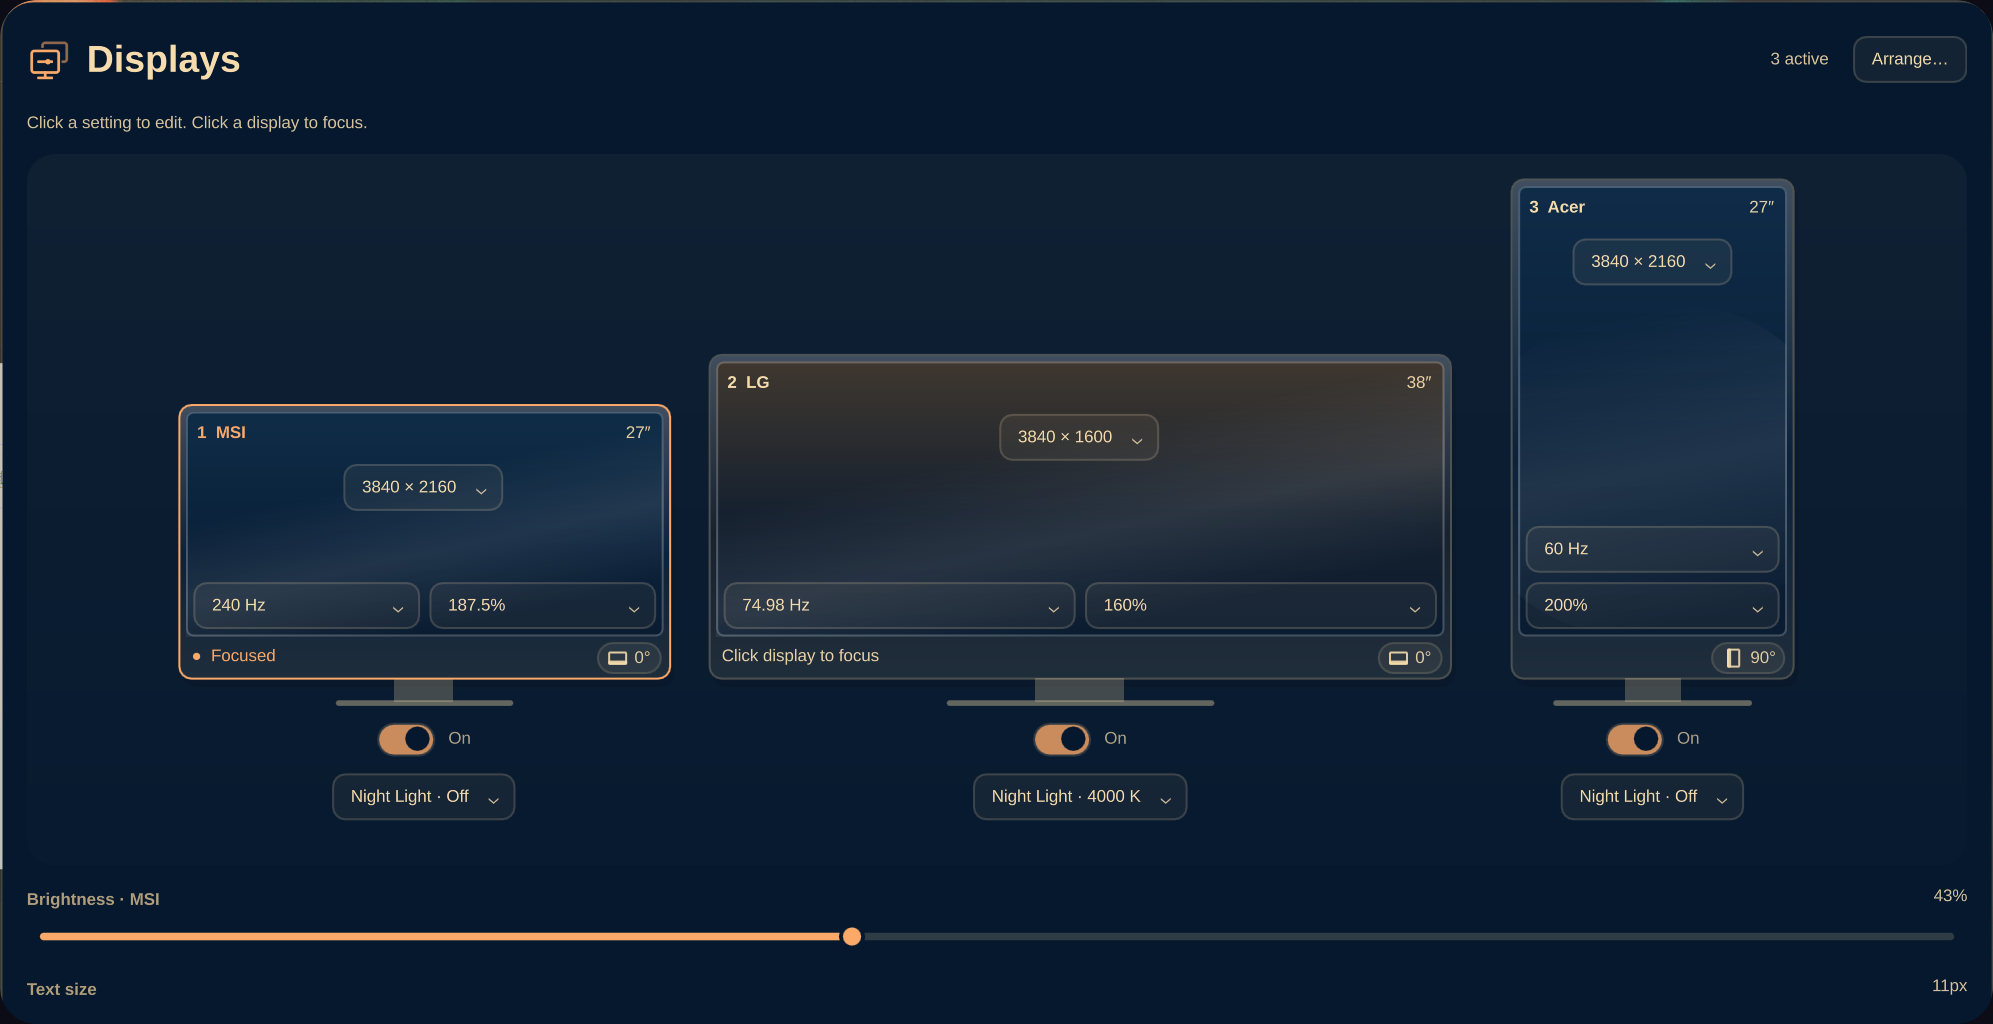
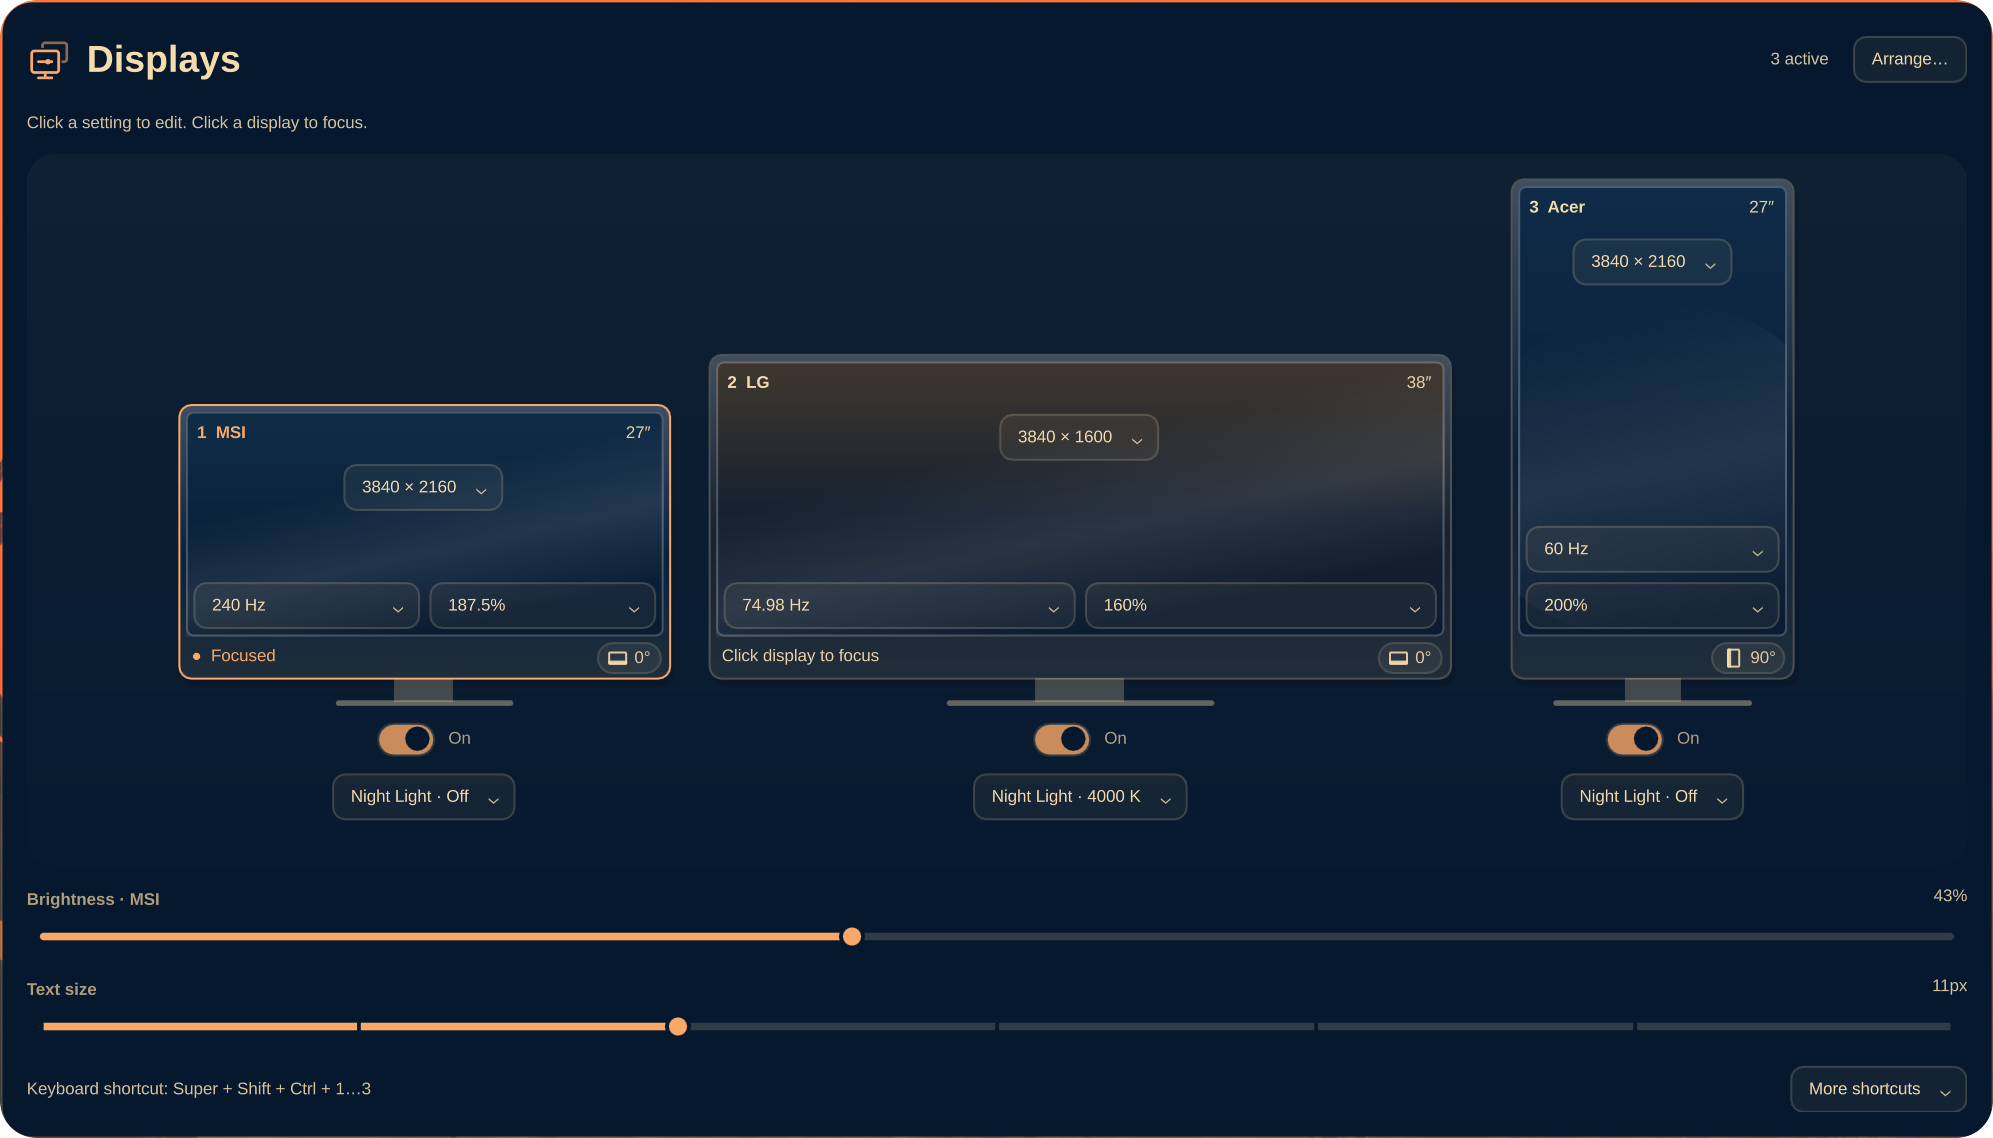
3.2.1 - rename to Monitor Desk, full-height panel and desktop artwork
Display name becomes Monitor Desk; plugin ID case.monitor-switcher, the
monitor-switcher command, config paths, IPC and shortcuts are unchanged.
The panel opens at full height when the screen has room instead of a fixed
600-unit cap. New artwork shows the complete panel on the real MSI desktop
with feature bullets.

Changed region(s): [[0.0, 0.0, 1.0, 1.0], [0.0, 0.0, 0.1867, 0.125], [0.7466, 0.1562, 0.9022, 0.2812]]

diff --git a/Panel.qml b/Panel.qml
@@ -1,4 +1,4 @@
-// Monitor Switcher: per-screen popup, one authoritative backend snapshot.
+// Monitor Desk (formerly Monitor Switcher): per-screen popup, one authoritative backend snapshot.
 // Originally vendored from Omarchy's monitor panel; see UPSTREAM.md.
 import QtQuick
 import QtQuick.Controls
@@ -440,7 +440,7 @@ Panel {
     anchors.fill: parent
     bar: root.bar
     iconComponent: Component { MonitorLogo { color: button.active && button.useActiveColor ? button.activeColor : button.foreground } }
-    tooltipText: "Monitor Switcher"
+    tooltipText: "Monitor Desk"
     onPressed: function(b) { root.toggle() }
   }
 
@@ -453,7 +453,9 @@ Panel {
     focusTarget: keyCatcher
     borderSpec: Border.flat(Util.alpha(Color.foreground, 0.18), 1)
     contentWidth: panel.fittedContentWidth(Style.space(1160))
-    contentHeight: panel.fittedContentHeight(panelColumn.implicitHeight, Style.space(root.shortcutsExpanded ? 820 : 600))
+    // Show the whole panel whenever the screen has room; KeyboardPanel caps it
+    // to the available height, and the ScrollView takes over only beyond that.
+    contentHeight: panel.fittedContentHeight(panelColumn.implicitHeight)
 
     PanelKeyCatcher {
       id: keyCatcher

diff --git a/README.md b/README.md
@@ -1,4 +1,4 @@
-# Monitor Switcher
+# Monitor Desk
 
 ## Your displays. One place.
 
@@ -6,9 +6,12 @@ Resolution, refresh rate, scale, **rotation**, power and layout for every
 monitor, in one panel for [Omarchy](https://omarchy.org). Every change is a
 verified before you keep it, and reverts by itself if you don't.
 
+*Formerly **Monitor Switcher**. Same plugin ID (`case.monitor-switcher`),
+commands, settings and shortcuts, so updating is seamless.*
+
 **[Install](#install)** · **[Rotate a display](#rotate-a-display)** · [Use the panel](#use-the-panel) · [Keyboard](#keyboard-controls) · [Command line](#command-line) · [What's new in 3.2](RELEASE-NOTES.md)
 
-<a href="preview.png"><img src="preview.png" alt="Monitor Switcher panel: MSI and LG in landscape, Acer in portrait, with resolution, refresh rate, scale, rotation, power and Night Light on every display." width="1000"></a>
+<a href="preview.png"><img src="preview.png" alt="Monitor Desk open on an Omarchy desktop: MSI and LG in landscape, the Acer in portrait, with resolution, refresh rate, scale, rotation, power, Night Light, brightness and text size." width="1000"></a>
 
 - **Click to edit.** Resolution, refresh and scale sit right on each display.
 - **Turn it portrait.** *New in 3.2:* rotate from the button on each monitor's chin.
@@ -26,7 +29,7 @@ Click the small monitor button on a display's chin (or press `O`), pick an
 orientation, and watch the card turn. Screens next to it slide over so your
 pointer still crosses cleanly. Keep it, or do nothing and it reverts in 20 seconds.
 
-<a href="preview-rotation.png"><img src="preview-rotation.png" alt="Rotation menu opened from the Acer's chin button: Landscape standard, Portrait turned right (checked), Landscape upside down and Portrait turned left, beside the portrait Acer card." width="1000"></a>
+<a href="preview-rotation.png"><img src="preview-rotation.png" alt="Rotation menu opened from the Acer's chin button on an Omarchy desktop: Landscape standard, Portrait turned right (checked), Landscape upside down and Portrait turned left." width="1000"></a>
 
 [How rotation works →](#rotate-a-display)
 
@@ -35,7 +38,7 @@ pointer still crosses cleanly. Keep it, or do nothing and it reverts in 20 secon
 Drag portrait and landscape screens into position, or choose left, right,
 above or below. Preview the layout, apply it, and keep it if it feels right.
 
-<a href="preview-detail.png"><img src="preview-detail.png" alt="Arrangement view: MSI, LG and the portrait Acer as tiles in desktop space, with placement buttons and Apply arrangement." width="1000"></a>
+<a href="preview-detail.png"><img src="preview-detail.png" alt="Arrangement view on an Omarchy desktop: MSI, LG and the portrait Acer as tiles in desktop space, with placement buttons and Apply arrangement." width="1000"></a>
 
 ## Night Light for each monitor.
 
@@ -151,6 +154,9 @@ Descriptions also appear in Omarchy's `SUPER+K` keybindings sheet. Adjust the
 plugin path if you installed it under a different ID.
 
 ## Command line
+
+The plugin ID and command keep their original `monitor-switcher` names, so
+existing keybinds, scripts and configs continue to work.
 
 The executable lives inside the plugin; installation does not add it to `PATH`.
 Use its full path, or enable the short command for the current shell:

diff --git a/assets/screenshots/README.md b/assets/screenshots/README.md
@@ -1,29 +1,31 @@
 # Screenshots
 
-Four Monitor Switcher captures taken on the MSI MPG272UX OLED (DP-3),
-September 25, 2026: 3840×2160 at 240 Hz, 187.5% scaling. The high pixel density
-gives native captures 1993 pixels wide. The desk: MSI (landscape), LG ultrawide
-(landscape, Night Light 4000 K) and Acer PE270K in portrait (90°, turned
-clockwise), in the user's current theme.
+Monitor Desk captures taken on the MSI MPG272UX OLED (DP-3), September 25,
+2026: 3840×2160 at 240 Hz, 187.5% scaling. The desk: MSI and LG ultrawide in
+landscape (LG Night Light 4000 K) and the Acer PE270K in portrait (90°, turned
+clockwise), in the user's current theme, on an empty workspace.
 
-Display values and controls are unaltered. Images are cropped to the plugin
-panel; the desktop outside its rounded corners is masked with the artwork
-background, so no windows or wallpaper appear.
+For each state there are two real captures from the same `grim -o DP-3` frame:
+
+- `displays.png`, `rotation.png`, `arrangement.png`, `night-light.png`: the
+  complete plugin panel at native size (1993 px wide), top to bottom including
+  Text size and the shortcut row, with transparent rounded corners.
+- `desktop-*.jpg`: the surrounding MSI desktop (bar and wallpaper), used as the
+  artwork backdrop.
+
+Values and controls are unaltered. The artwork places the panel at its real
+position on the desktop, darkens the free space and adds short bullets there.
 
 The README and GitHub release show exactly three images:
 
-1. `preview.png` / `displays.png` — **monitor management hero**: all three
-   displays, with the chin rotation buttons (Acer at 90°), power and Night Light.
-2. `preview-rotation.png` / `rotation.png` — **rotation (new in 3.2)**: the
-   Acer's orientation menu opened from its chin, current choice checked.
-3. `preview-detail.png` / `arrangement.png` — **desktop arrangement**: the
-   portrait Acer beside MSI and LG in desktop space, with placement controls.
+1. `preview.png` (`../hero.svg`) — **monitor management hero**.
+2. `preview-rotation.png` (`../rotation.svg`) — **rotation, new in 3.2**: the
+   Acer's orientation menu opened from its chin.
+3. `preview-detail.png` (`../arrangement.svg`) — **desktop arrangement** with
+   the portrait Acer.
 
-`night-light.png` is linked from the README: the LG's temperature menu open
-from its toggle.
-
-Editable artwork is in `../hero.svg`, `../rotation.svg`, `../arrangement.svg`
-and `../night-light.svg`. Render from the repository root:
+`night-light.png` is linked from the README; `../night-light.svg` is its
+editable showcase. Render from the repository root:
 
 ```bash
 rsvg-convert assets/hero.svg -o preview.png

diff --git a/HANDOFF.md b/HANDOFF.md
@@ -290,3 +290,21 @@ The GitHub release attachments are replaced by just the three reviewed previews.
 - README/release images: `preview.png`, `preview-rotation.png`,
   `preview-detail.png`; `night-light.png` linked. `preview-night-light.png`
   was retired (old releases use immutable commit URLs).
+
+## 3.2.1 — Monitor Desk rename and full-height artwork (September 25, 2026)
+
+- Display name only: `manifest.name`, `barWidget.displayName`, bar tooltip,
+  `logo.svg` title, README/release/artwork. ID `case.monitor-switcher`, CLI,
+  config/state paths and IPC target are unchanged: marketplace IDs are
+  permanent, and the ID is also the install directory, `shell.json` entry and
+  keybind path.
+- `Panel.qml` no longer caps content height at 600/820 styled units;
+  `KeyboardPanel.fittedContentHeight` still caps it to the available screen
+  height and the ScrollView scrolls beyond that. On MSI the panel is now 607
+  logical px and shows Text size and the shortcut row.
+- Artwork: each state is one `grim -o DP-3` frame. The panel crop is
+  `(popup.x, popup.y, popup.height) × 1.875` (card origin 1837,54 at
+  x=980,y=29). The desktop crop starts at x=700. SVGs draw the shadow from a
+  blurred rect, so panel pixels stay identical to the capture. Wait for
+  `actionRunning == false` before capture (after a focus action the panel is
+  briefly dimmed). The capture helpers were `/tmp/monitor-fix/cap2.sh`.

diff --git a/CHANGELOG.md b/CHANGELOG.md
@@ -1,5 +1,16 @@
 # Changelog
 
+## 3.2.1 — Monitor Desk — 2026-09-25
+
+- Renamed to **Monitor Desk** (formerly Monitor Switcher). The plugin ID
+  `case.monitor-switcher`, the `monitor-switcher` command, config and state
+  paths, IPC target and shortcuts are unchanged; updating is seamless.
+- The panel opens at its full height whenever the screen has room, so Text
+  size and the shortcut row are no longer hidden below a fixed 600-unit cap.
+  It still scrolls on screens too short to fit it.
+- New artwork: the complete panel on the real MSI desktop (3840×2160,
+  187.5%), with short feature bullets beside it.
+
 ## 3.2.0 — Monitor rotation — 2026-09-25
 
 - Rotate any active display from a small button on its chin, or press `O`.

diff --git a/RELEASE-NOTES.md b/RELEASE-NOTES.md
@@ -1,10 +1,12 @@
-# Monitor Switcher 3.2 — Rotation
+# Monitor Desk 3.2 — Rotation
+
+*Formerly Monitor Switcher. Same plugin ID, commands and settings.*
 
 Your displays. One place. Now in portrait, too.
 
 Manage resolution, refresh rate, scale, rotation, power and desktop layout from one panel.
 
-![Monitor Switcher panel with MSI and LG in landscape and the Acer in portrait](preview.png)
+![Monitor Desk on an Omarchy desktop: MSI and LG in landscape, the Acer in portrait](preview.png)
 
 ## Turn it portrait
 
